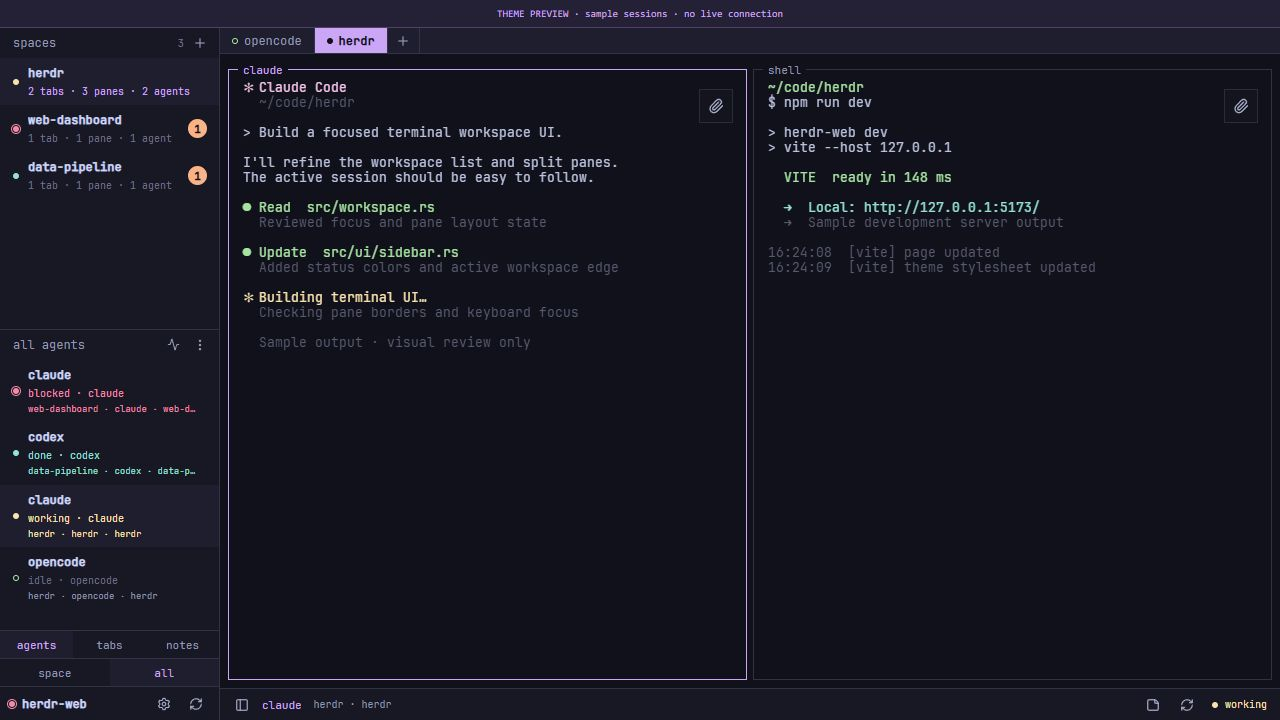
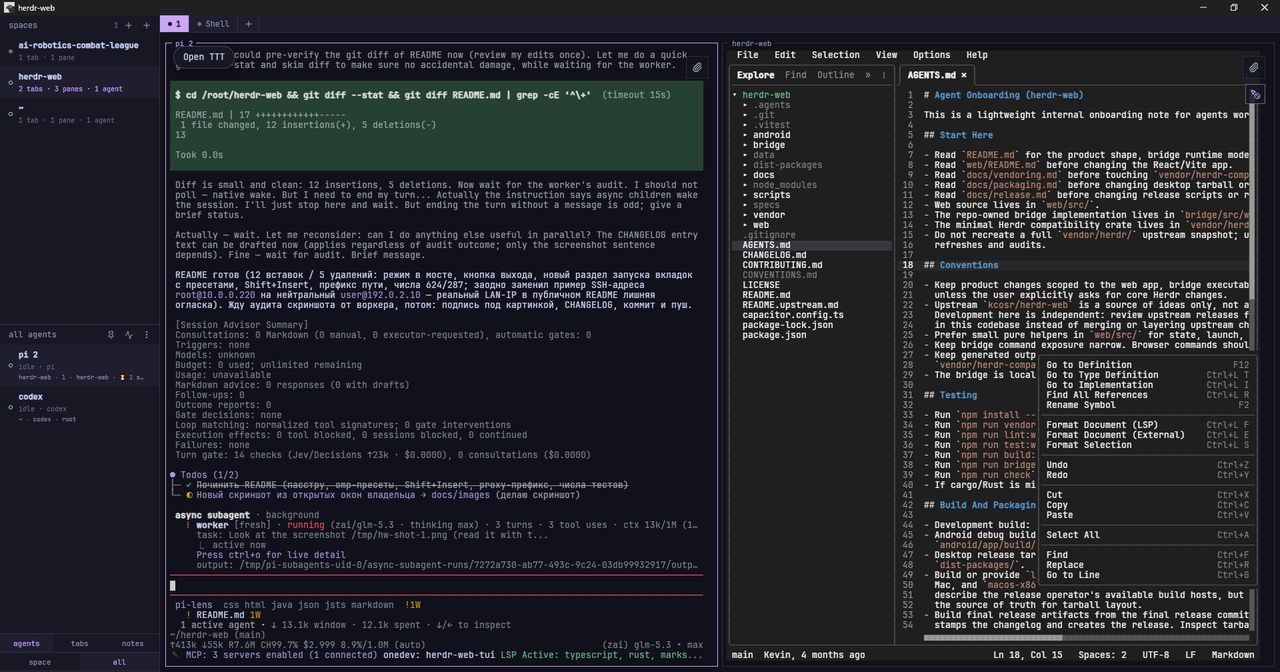
docs: refresh README for bridge-tracked passthrough, launcher presets, paste and proxy notes; replace preview image

diff --git a/README.md b/README.md
@@ -6,9 +6,9 @@
 
 Тема работает в браузере и подключается к настоящим сессиям через `herdr-web-bridge`. Сам Herdr устанавливается отдельно; его терминальный интерфейс этот проект не изменяет.
 
-![Herdr TUI: предпросмотр с тестовыми сессиями](docs/images/herdr-tui-preview.png)
+![Herdr TUI: рабочий интерфейс](docs/images/herdr-tui-preview.png)
 
-На изображении тестовые сессии. В рабочем интерфейсе отображаются ваши пространства, агенты и терминалы.
+На изображении живой рабочий интерфейс: пространства, агенты и терминалы.
 
 ## Требования
 
@@ -107,6 +107,9 @@ systemd-юнитах с нестандартным `HOME` задайте `HERDR_
 Пример выше слушает LAN (`0.0.0.0`); если заходите только через SSH-туннель —
 используйте `--host 127.0.0.1` (см. раздел про удалённый сервер).
 
+URL настроенного bridge может включать префикс пути (например, за обратным
+прокси) — это позволяет обслуживать несколько bridge с одного origin.
+
 ## Выбор темы
 
 **Settings → Display → Appearance:**
@@ -120,13 +123,17 @@ systemd-юнитах с нестандартным `HOME` задайте `HERDR_
 
 Нажмите правую кнопку мыши внутри терминала: появятся переименование и сброс имени, перестановка с активной панелью, разделение вправо/вниз, вставка из буфера обмена (Paste), восстановление обычного макета вкладки — только когда вкладка уже приближена, — и закрытие с подтверждением. Отдельного пункта Zoom в меню больше нет; существующее состояние Zoom остаётся восстановимым. Меню работает в обеих темах и действует на панель под курсором. Недоступные bridge команды скрываются.
 
-Клавиатура: **Shift+F10** или клавиша контекстного меню. Пункт **Send right-clicks to pane** передаёт ПКМ терминальной программе. Чтобы вернуть меню, нажмите **Shift+ПКМ** и выберите **Use Herdr right-click menu**. Переключатель действует только в текущем веб-клиенте для этой панели и сбрасывается после перезагрузки страницы; настройку native Herdr он не меняет.
+Клавиатура: **Shift+F10** или клавиша контекстного меню. Пункт **Send right-clicks to pane** передаёт ПКМ терминальной программе. Режим хранится в bridge, а не в браузере: при подключении терминальный сокет сообщает текущий режим панели (`auto` или `off`) и рассылает каждое изменение, поэтому настройка переживает перезагрузку страницы и смену адреса/происхождения, все браузеры, открытые на панель, видят один и тот же режим, а TTT-подобные панели пересылают ПКМ без ручного включения. Чтобы вернуть меню, нажмите **Shift+ПКМ** и выберите **Use Herdr right-click menu** — или кнопку выхода (значок перечёркнутого курсора под кнопкой загрузки файлов), которая видна, пока ПКМ уходят в панель. Настройку native Herdr режим не меняет; старые bridge без этих кадров сохраняют прежнее поведение (флаг только в текущем браузере).
 
 Для перестановки панелей и восстановления макета после Zoom нужен обновлённый bridge из этого репозитория: одной замены `web/dist` на старом bridge недостаточно.
 
+## Запуск вкладок и агентов
+
+Кнопка **New tab** («+») открывает диалог запуска новой панели: обычный **Shell** или встроенные пресеты управляемых агентов — **Codex**, **Claude**, **pi**, **omp**, **Grok** и **OpenCode**. Пресеты запускаются через механизм управляемых агентов Herdr, иконки агентов (включая OMP) отображаются у панелей. Пользовательские пресеты — произвольные команды и панели плагинов (например, TTT Editor) — задаются на стороне bridge параметром `--launcher-presets` или переменной `HERDR_WEB_LAUNCHER_PRESETS` (JSON-файл со списком записей; встроенный набор можно сужать именами `shell`, `codex`, `claude`, `pi`, `omp`, `grok`, `opencode`). Диалог закрывается сразу после подтверждения запуска; ошибки старта агента (например, отсутствующий CLI на хосте bridge) видны прямо в новой панели.
+
 ## Копирование и вставка
 
-Выделение текста мышью больше не копируется автоматически: выделение лишь выделяет, а копирование выполняется явными действиями — правый клик по выделению копирует текст и снимает выделение (Shift+правый клик всегда открывает меню терминала), либо копирование с клавиатуры, либо мобильный диалог копирования. Двойной щелчок выделяет слово. Нажатие колёсика вставляет текст из буфера в панель под курсором и делает её активной; то же делает пункт «Paste» в меню терминала. Переносы строк сохраняются; если программа поддерживает bracketed paste, используется этот режим.
+Выделение текста мышью больше не копируется автоматически: выделение лишь выделяет, а копирование выполняется явными действиями — правый клик по выделению копирует текст и снимает выделение (Shift+правый клик всегда открывает меню терминала), либо копирование с клавиатуры, либо мобильный диалог копирования. Двойной щелчок выделяет слово. Нажатие колёсика вставляет текст из буфера в панель под курсором и делает её активной; то же делают **Shift+Insert** и пункт «Paste» в меню терминала. Переносы строк сохраняются; если программа поддерживает bracketed paste, используется этот режим.
 
 Для вставки колёсиком браузеру нужен доступ к чтению буфера: используйте HTTPS или localhost (в том числе SSH-туннель). На обычном HTTP-адресе Linux-сервера этот API может быть недоступен. При отказе появится сообщение; можно воспользоваться стандартной вставкой с клавиатуры. Мобильное выделение и меню ПКМ сохраняются.
 
@@ -134,7 +141,7 @@ systemd-юнитах с нестандартным `HOME` задайте `HERDR_
 
 Кнопка **Open TTT** в левом верхнем углу терминальной области (на одной строке с кнопкой загрузки файлов — «скрепкой», зеркально ей) открывает [TTT Editor](https://tttedit.dev) новой вкладкой в активном пространстве — через официальный механизм панелей плагинов Herdr (`ttt.editor`), поэтому панель получает родную маршрутизацию правого клика и разрешение каталога плагина. Кнопка появляется, только когда плагин установлен и включён на хосте bridge (`herdr plugin install eugenioenko/ttt/herdr-plugin`); на сохранённых SSH-машинах она скрыта, потому что запуск всегда идёт на хосте bridge.
 
-События мыши пересылаются терминальной программе только в панелях с включённым пунктом **Send right-clicks to pane** (например, TTT): bridge передаёт состояние захвата мыши от демона, и Клиент пересылает структурированные события в панель, где демон кодирует их в формате, который запросило приложение. Во всех остальных панелях (в том числе когда приложение само включает отслеживание мыши — pi, vim, htop) мышь остаётся полностью браузерной: перетаскивание выделяет текст, правый клик копирует/открывает меню, колесо листает историю. **Shift+правый клик** всегда открывает меню Herdr, а вставка колёсиком работает, только когда панель не пересылает мышь.
+События мыши пересылаются терминальной программе только в панелях с включённой передачей ПКМ (**Send right-clicks to pane**; для TTT-панелей режим включается автоматически): bridge передаёт состояние захвата мыши от демона, и Клиент пересылает структурированные события в панель, где демон кодирует их в формате, который запросило приложение. Во всех остальных панелях (в том числе когда приложение само включает отслеживание мыши — pi, vim, htop) мышь остаётся полностью браузерной: перетаскивание выделяет текст, правый клик копирует/открывает меню, колесо листает историю. **Shift+правый клик** всегда открывает меню Herdr, а вставка колёсиком работает, только когда панель не пересылает мышь.
 
 ## Если herdr-web уже установлен
 
@@ -181,11 +188,11 @@ npm run test:web
 npm run build:web
 ```
 
-Полный набор upstream-проверок: `npm run check` (нужны Bash и ripgrep, помимо Node.js и Rust). **Windows не тестируется и не правится** (см. заметку в разделе установки): у исходного проекта на Windows есть известные ошибки в Rust-тестах файловых операций и в тестах Unix-скриптов, полный набор там не заявлен как прошедший и проверяться не будет. Детали, дата и результаты проверок находятся в [технической документации темы](docs/herdr-tui.md). Работа форка на Linux проверена 02.11.2026: линтер, все 596 frontend-тестов (63 файла), 275 тестов bridge (ещё 1 игнорируется), 147 тестов вендор-крейта совместимости, форматирование Rust, `tsc -b`, отладочная сборка и изолированная production-сборка Vite — всё без ошибок. Исторические результаты на Windows сохранены ниже по тексту и в [технической документации](docs/herdr-tui.md); сохранённые SSH-машины, зоны Local/Remote и загрузки на удалённые машины описаны в [docs/native-machines-and-uploads.md](docs/native-machines-and-uploads.md).
+Полный набор upstream-проверок: `npm run check` (нужны Bash и ripgrep, помимо Node.js и Rust). **Windows не тестируется и не правится** (см. заметку в разделе установки): у исходного проекта на Windows есть известные ошибки в Rust-тестах файловых операций и в тестах Unix-скриптов, полный набор там не заявлен как прошедший и проверяться не будет. Детали, дата и результаты проверок находятся в [технической документации темы](docs/herdr-tui.md). Работа форка на Linux проверена 03.11.2026: линтер, все 624 frontend-теста, 287 тестов bridge (ещё 1 игнорируется), 147 тестов вендор-крейта совместимости, форматирование Rust, `tsc -b`, отладочная сборка и изолированная production-сборка Vite — всё без ошибок. Исторические результаты на Windows сохранены ниже по тексту и в [технической документации](docs/herdr-tui.md); сохранённые SSH-машины, зоны Local/Remote и загрузки на удалённые машины описаны в [docs/native-machines-and-uploads.md](docs/native-machines-and-uploads.md).
 
 ## Добавление машин (Farm)
 
-Кнопка «+» в заголовке секции боковой панели открывается, когда bridge обслуживает capability `machines` (в ответе `/api/capabilities`) — в том числе до первой сохранённой машины и при выключенных зонах Local/Remote. Диалог «Add machine» принимает SSH-адрес (например, `root@10.0.0.220`), необязательные имя машины и имя удалённой сессии. Отправка формы запускает на хосте bridge штатную команду `herdr machine add` (обычный argv-вызов): регистрация следует документированному сценарию CLI — он может обнаружить и запустить удалённый сервер Herdr и сохраняет профиль, используя уже настроенный SSH-доступ хоста bridge. Сам bridge ничего не хранит и не добавляет SSH-ключей: аутентификация и проверка host-ключей остаются в OpenSSH, а шаги, зарезервированные CLI под интерактивное подтверждение (установка или замена удалённого сервера), не выполняются — команда завершается с текстом ошибки CLI. При перемещённом каталоге машин (`HERDR_WEB_MACHINES_ENDPOINTS`) маршрут отказывает с 503 ДО запуска CLI: CLI писал бы в иной каталог, чем тот, что обслуживает bridge, — машины в этом режиме добавляются только через CLI. Невалидные значения отклоняются до запуска; новая машина появляется в дереве сразу. Маршрут: `POST /api/machines/add`, защищён стандартной политикой запросов bridge.
+Кнопка «+» в заголовке секции боковой панели открывается, когда bridge обслуживает capability `machines` (в ответе `/api/capabilities`) — в том числе до первой сохранённой машины и при выключенных зонах Local/Remote. Диалог «Add machine» принимает SSH-адрес (например, `user@192.0.2.10`), необязательные имя машины и имя удалённой сессии. Отправка формы запускает на хосте bridge штатную команду `herdr machine add` (обычный argv-вызов): регистрация следует документированному сценарию CLI — он может обнаружить и запустить удалённый сервер Herdr и сохраняет профиль, используя уже настроенный SSH-доступ хоста bridge. Сам bridge ничего не хранит и не добавляет SSH-ключей: аутентификация и проверка host-ключей остаются в OpenSSH, а шаги, зарезервированные CLI под интерактивное подтверждение (установка или замена удалённого сервера), не выполняются — команда завершается с текстом ошибки CLI. При перемещённом каталоге машин (`HERDR_WEB_MACHINES_ENDPOINTS`) маршрут отказывает с 503 ДО запуска CLI: CLI писал бы в иной каталог, чем тот, что обслуживает bridge, — машины в этом режиме добавляются только через CLI. Невалидные значения отклоняются до запуска; новая машина появляется в дереве сразу. Маршрут: `POST /api/machines/add`, защищён стандартной политикой запросов bridge.
 
 ## Отключение сохранённых машин
 

diff --git a/CHANGELOG.md b/CHANGELOG.md
@@ -120,6 +120,13 @@
 
 ### Changed
 
+- README refreshed to match current behavior: the right-click passthrough section now
+  describes the bridge-tracked mode (`auto`/`off`, surviving reloads and origin changes) and the
+  crossed-out-pointer exit button; a new section documents the New tab launch dialog with its
+  built-in agent presets (Shell, Codex, Claude, pi, omp, Grok, OpenCode) and
+  `HERDR_WEB_LAUNCHER_PRESETS`; Shift+Insert paste and the reverse-proxy path prefix are covered;
+  Linux verification counts updated (624 frontend / 287 bridge tests); the preview image is
+  replaced with a screenshot of the live working interface.
 - The duplicated selection column-range ternaries in `selectedTextFromVisibleRows` and the
   renderer's viewport selection text are extracted into a shared tested `selectionRowColRange`
   helper (anchor rows clamp to their endpoint, intermediate rows span to the caller's row end);
